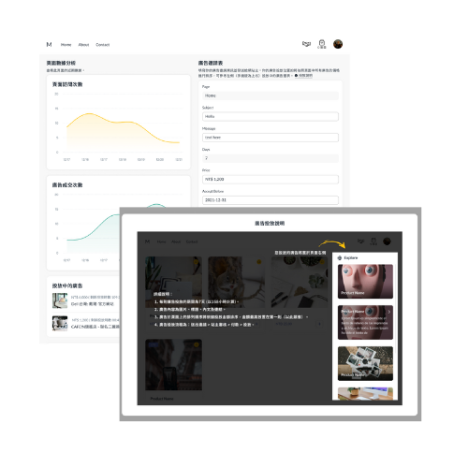
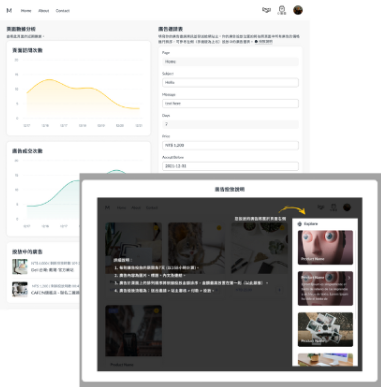
feat: layout page

diff --git a/src/components/ProductList/index.js b/src/components/ProductList/index.js
@@ -1,0 +1,36 @@
+import { useState } from "react";
+import TitleGroup from '../TitleGroup'
+import ProductItem from './Item'
+import productImage1 from '../../assets/images/section-image-1.png'
+import productImage2 from '../../assets/images/section-image-2.png'
+import productImage3 from '../../assets/images/section-image-3.png'
+import productImage4 from '../../assets/images/section-image-4.png'
+import productImage5 from '../../assets/images/section-image-5.png'
+import productImage6 from '../../assets/images/section-image-6.png'
+
+import './index.css'
+const ProductList = () => {
+  const [products] = useState([
+    { imgSrc: productImage1, title: 'CREATE YOUR “GEMS”', instructions: 'Create your “GEMs” with the ability to embed series of multimedia (videos, audios, documents, pictures, links and more) as your digital products or a way to advertise your services.' },
+    { imgSrc: productImage2, title: 'missions', instructions: 'Engage with potential customers in a more interesting way, and you can gift them your “GEMs” as rewards!' },
+    { imgSrc: productImage3, title: 'dLBS Maps', instructions: 'An interactive map displays ongoing GEMs airdrops or missions available to all users.' },
+    {
+      imgSrc: productImage4, title: 'WEBSITE BUILDER', instructions: 'Build your website in just a few clicks! Our customizable templates can display your GEMs, info and other contents.You can use it as a simple Linktree page or a complex Wix site.'
+    },
+    { imgSrc: productImage5, title: 'AFFILIATE MARKETING', instructions: 'Advertisement request feature. Websites built with yoh app allows their visitors to post advertisement requests to bring traffic to their websites.' },
+    { imgSrc: productImage6, title: 'ANALYTICS', instructions: 'Track the websites traffic and sales from NFT and advertisement requests. Easy to read charts to easily track your creative works performance on the web.' },
+  ])
+  return (
+    <div className='product'>
+      <TitleGroup title="Our Products" />
+      <div className="column-2">
+        {products.map((product, index) => (
+          <ProductItem key={index} {...product} />
+        ))}
+      </div>
+    </div>
+  )
+}
+
+
+export default ProductList

diff --git a/src/components/ContactUs/Form/index.js b/src/components/ContactUs/Form/index.js
@@ -1,0 +1,26 @@
+import InputGroup from '../../InputGroup'
+import Input from '../../InputGroup/Input'
+import './index.css'
+const Form = () => {
+  return (
+    <div className='form'>
+      <div className='column-2 mb-5'>
+        <InputGroup title='Name:' inputSlot={<Input placeholder='Enter your name' />} />
+        <InputGroup title='Email:' inputSlot={<Input placeholder='Enter your email' />} />
+      </div>
+      <div className='column-2 mb-5'>
+        <InputGroup title='Phone:' inputSlot={<Input placeholder='Enter your phone' />} />
+        <InputGroup title='Address:' inputSlot={<Input placeholder='Enter your address' />} />
+      </div>
+      <div className='w-full mb-5'>
+        <InputGroup title='Title:' inputSlot={<Input placeholder='Enter title' />} />
+      </div>
+      <div className='w-full'>
+        <InputGroup title='Your Message:' inputSlot={<Input type="textarea" placeholder='Enter your message' />} />
+      </div>
+      <button className='submit'>submit</button>
+    </div>
+  )
+}
+
+export default Form

diff --git a/src/App.js b/src/App.js
@@ -1,12 +1,29 @@
 import Header from './components/Header'
 import Menu from './components/Menu'
+import ProductList from './components/ProductList'
+import VideoSection from './components/VideoSection'
+import ArticleList from './components/ArticleList'
+import PartnerList from './components/PartnerList'
+import CompanyProfile from './components/CompanyProfile'
+import ContactUs from './components/ContactUs'
+import Footer from './components/Footer'
+import logo from './assets/images/dlbs-logo.png';
 import './App.css';
 
 function App() {
   return (
     <div className="App">
       <Header />
-      <Menu color="blue" />
+      <div className='flex justify-center items-center pl-32 mb-32'>
+        <Menu color="blue" class="!mt-40" left={<img className='w-24 mr-32' src={logo} alt="logo" />} />
+      </div>
+      <ProductList />
+      <VideoSection />
+      <ArticleList />
+      <PartnerList />
+      <CompanyProfile />
+      <ContactUs />
+      <Footer />
     </div>
   );
 }

diff --git a/src/components/VideoSection/index.js b/src/components/VideoSection/index.js
@@ -1,0 +1,18 @@
+import videoImg from '../../assets/images/banner-2.png'
+import './index.css'
+const VideoSection = () => {
+  return (
+    <div className="video-section">
+      <img src={videoImg} alt="video" />
+      <div className='info'>
+        The rise of Web3.0 has brought a new era of personalized experiences.
+        With the current state of social networking, people are seeking deeper and more meaningful connections. They are looking for ways to create and explore their world, and they want a platform that allows them to do so. That's where we come in.
+        Tired of generic social media platforms? Want to connect with like-minded individuals who share your interests and passions? Our LBS system provides a personalized experience that allows you to explore and discover new experiences in the world around you.
+        <br /><span className='more'>Learn more {'>'}</span>
+      </div>
+
+    </div>
+  )
+}
+
+export default VideoSection

diff --git a/src/components/PartnerList/index.js b/src/components/PartnerList/index.js
@@ -1,0 +1,28 @@
+import { useState } from 'react'
+import TitleGroup from '../TitleGroup'
+import PartnerItem from './Item'
+import partnerImg1 from '../../assets/images/clients-1.png'
+import partnerImg2 from '../../assets/images/clients-2.png'
+import partnerImg3 from '../../assets/images/clients-3.png'
+import partnerImg4 from '../../assets/images/clients-4.png'
+import './index.css'
+const PartnerList = () => {
+  const [partners] = useState([
+    { imgSrc: partnerImg1 },
+    { imgSrc: partnerImg2 },
+    { imgSrc: partnerImg3 },
+    { imgSrc: partnerImg4 },
+  ])
+  return (
+    <div className='partner'>
+      <TitleGroup title="Our Clients" />
+      <div className='flex flex-row flex-wrap justify-center sm:justify-between mt-6'>
+        {partners.map((partner, index) => (
+          <PartnerItem key={index} imgSrc={partner.imgSrc} />
+        ))}
+      </div>
+    </div>
+  )
+}
+
+export default PartnerList

diff --git a/src/components/CompanyProfile/index.js b/src/components/CompanyProfile/index.js
@@ -1,0 +1,27 @@
+import TitleGroup from '../TitleGroup'
+import historyImg from '../../assets/images/roadmap.png'
+import infoImg from '../../assets/images/info-image.png'
+import infoImg2 from '../../assets/images/info-image-2.png'
+import './index.css'
+const CompanyProfile = () => {
+  return (
+    <div className='company'>
+      <TitleGroup title="Roadmap" />
+      <img src={historyImg} alt="" />
+      <div className='column-2 mt-20'>
+        <div className='column-2-item'>
+          <TitleGroup title="Meet Our Team" />
+        </div>
+        <img src={infoImg} alt="" />
+      </div>
+      <div className='column-2 mt-14'>
+        <img src={infoImg2} alt="" />
+        <div className='column-2-item'>
+          <TitleGroup title="Join Us!" />
+        </div>
+      </div>
+    </div>
+  )
+}
+
+export default CompanyProfile

diff --git a/src/components/ContactUs/index.js b/src/components/ContactUs/index.js
@@ -1,0 +1,20 @@
+import Form from './Form'
+import './index.css'
+const ContactUs = () => {
+	return (
+		<div className='contact column-2'>
+			<div className='text-center p-2 sm:p-14 pt-2'>
+				<h2>Contact Us</h2>
+				<p className='mt-2'>If you have any questions or comments about our LBS system, please don't hesitate to contact us using the form below. Our team is always here to help you discover your personal universe.</p>
+				<h4 className='mt-6 text-xl'>Write to</h4>
+				<p className='email'>consultant@mzyme.xyz</p>
+				<p>Or use the contact form,
+					we will get back to you
+					in 3 working days.</p>
+			</div>
+			<Form />
+		</div>
+	);
+}
+
+export default ContactUs;

diff --git a/src/components/ProductList/Item/index.css b/src/components/ProductList/Item/index.css
@@ -1,0 +1,30 @@
+h1 {
+  text-transform: uppercase
+}
+.product-item {
+  width: 100%;
+  margin: 0 auto;
+  @apply p-8 text-center relative
+}
+
+.product-item:nth-child(odd)::after{
+  content: '';
+  display: block;
+  position: absolute;
+  right: 0px;
+  top: calc(50% - 60px);
+  width: 2px;
+  height: 60px;
+  border-left: 2px solid #3682BB;
+  @apply mt-4
+}
+
+.product-item img {
+  width: auto;
+  margin: 0 auto;
+  max-height: 300px;
+}
+
+.product-item h1 {
+  @apply text-2xl mt-4 font-semibold
+}

diff --git a/src/components/InputGroup/Input/index.js b/src/components/InputGroup/Input/index.js
@@ -1,0 +1,14 @@
+import './index.css'
+
+const Input = ({ value, placeholder, onChange, type }) => {
+  return (
+    <div className='w-full'>
+      {type === 'textarea' ?
+        <textarea className='bg-transparent outline-0' value={value} onChange={onChange} placeholder={placeholder} rows="4" cols="50" /> :
+        <input className='bg-transparent outline-0' type="text" value={value} onChange={onChange} placeholder={placeholder} />
+      }
+    </div>
+  )
+}
+
+export default Input

diff --git a/src/components/Menu/index.js b/src/components/Menu/index.js
@@ -5,7 +5,8 @@ import './index.css';
 const Menu = (props) => {
   const [menuList] = useState(['About', 'App', 'Feature', 'Career', 'Investor', 'Contact']);
   return (
-    <div className="menu">
+    <div className={'menu ' + (props.class ? props.class : '')}>
+      {props.left}
       {menuList.map((item, index) => {
         return <div className={'item ' + props.color} key={index}>{item}</div>
       })}

diff --git a/src/index.css b/src/index.css
@@ -10,7 +10,16 @@ body {
   -moz-osx-font-smoothing: grayscale;
 }
 
-code {
-  font-family: source-code-pro, Menlo, Monaco, Consolas, 'Courier New',
-    monospace;
+.column-2 {
+  align-items: start;
+  @apply grid grid-cols-2 gap-6;
 }
+
+@media screen and (max-width: 900px) {
+  .column-2 {
+    
+    @apply flex flex-col gap-3;
+  }
+}
+
+

diff --git a/src/components/ArticleList/index.js b/src/components/ArticleList/index.js
@@ -1,0 +1,13 @@
+import TitleGroup from '../TitleGroup'
+import './index.css'
+const ArticleList = ({ articles }) => {
+  return (
+    <div className="article">
+      <TitleGroup title="Spotlight: GEMs" />
+      <TitleGroup title="Spotlight: Missions" />
+      <h1>Article List</h1>
+    </div>
+  );
+}
+
+export default ArticleList;
